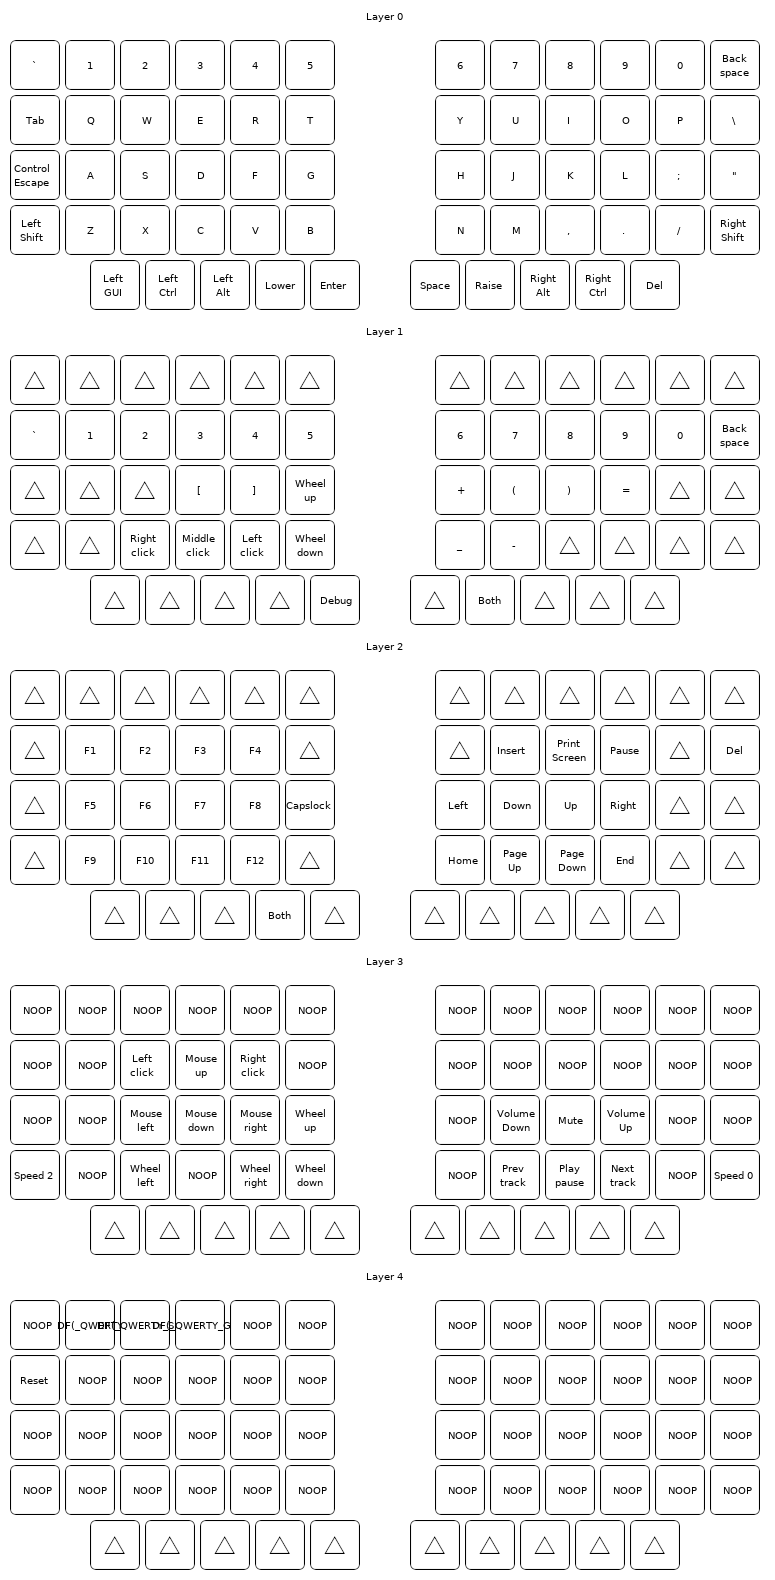
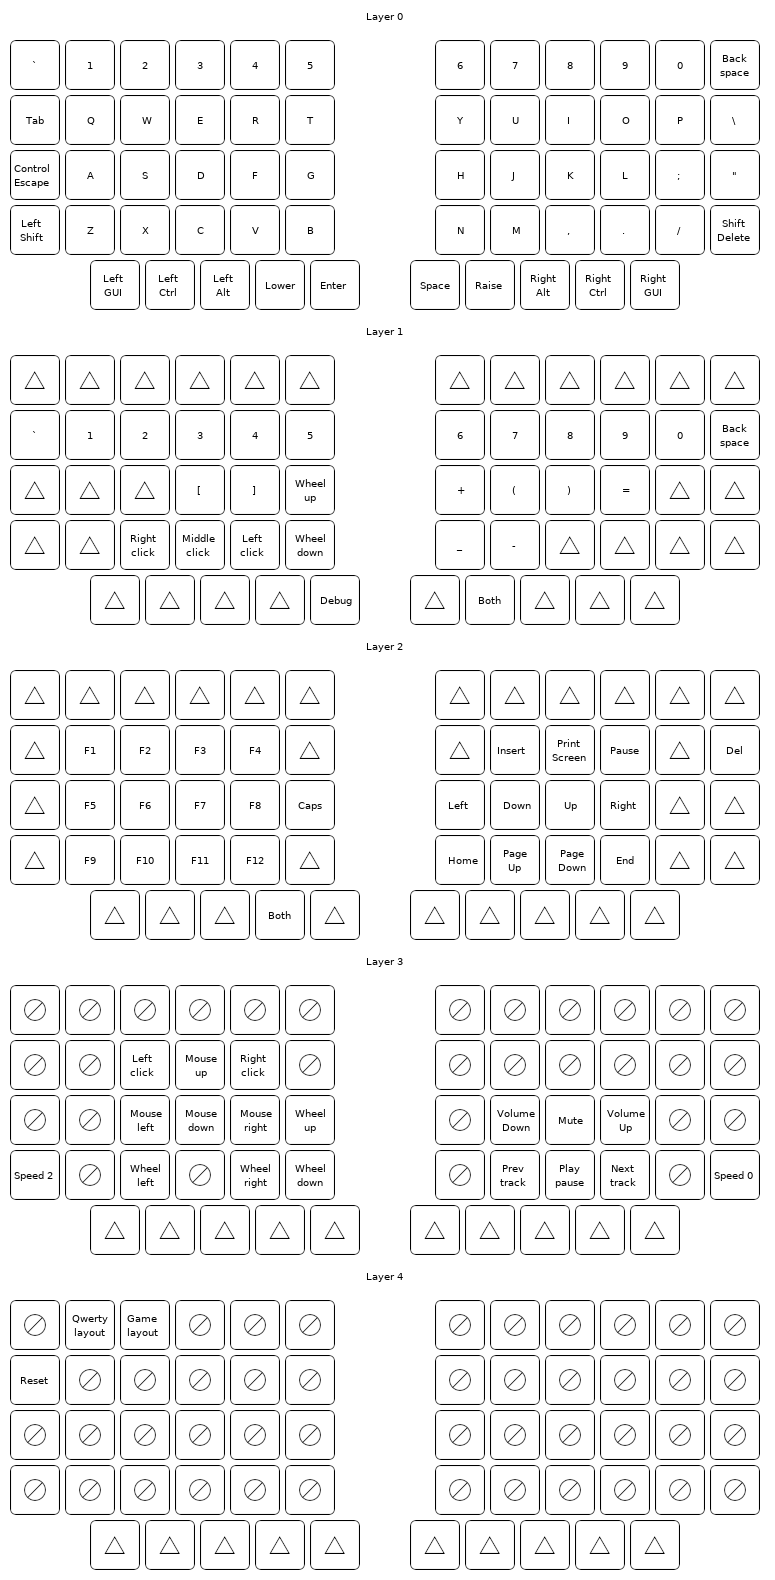
Move delete to right shift
* Restore right GUI key
* Remove slim layout

diff --git a/keymap.c b/keymap.c
@@ -2,7 +2,6 @@
 
 enum sofle_layers {
     _QWERTY,
-    _QWERTY_SLIM,
     _QWERTY_GAME,
     _LOWER,
     _RAISE,
@@ -11,29 +10,6 @@ enum sofle_layers {
 };
 
 const uint16_t PROGMEM keymaps[][MATRIX_ROWS][MATRIX_COLS] = {
-/*
- * QWERTY SLIM
- * ,-----------------------------------------.                    ,-----------------------------------------.
- * |  `   |      |      |      |      |      |                    |      |      |      |      |      | Bspc |
- * |------+------+------+------+------+------|                    |------+------+------+------+------+------|
- * | Tab  |   Q  |   W  |   E  |   R  |   T  |                    |   Y  |   U  |   I  |   O  |   P  |  \   |
- * |------+------+------+------+------+------|                    |------+------+------+------+------+------|
- * | ESC  |   A  |   S  |   D  |   F  |   G  |-------.    ,-------|   H  |   J  |   K  |   L  |   ;  |  '   |
- * |------+------+------+------+------+------|       |    |       |------+------+------+------+------+------|
- * |LShift|   Z  |   X  |   C  |   V  |   B  |-------|    |-------|   N  |   M  |   ,  |   .  |   /  |RShift|
- * `-----------------------------------------/       /     \      \-----------------------------------------'
- *            | LGUI | LCTR | LAlt |LOWER | /Enter  /       \Space \  |RAISE | RAlt | RCTR | Del  |
- *            |      |      |      |      |/       /         \      \ |      |      |      |      |
- *            `----------------------------------'           '------''---------------------------'
- */
-
-[_QWERTY_SLIM] = LAYOUT(
-  KC_GRV,    XXXXXXX,XXXXXXX, XXXXXXX, XXXXXXX, XXXXXXX,                   XXXXXXX,XXXXXXX,XXXXXXX,XXXXXXX,XXXXXXX,   KC_BSPC,
-  KC_TAB,       KC_Q,   KC_W,    KC_E,    KC_R,    KC_T,                      KC_Y,  KC_U,  KC_I,   KC_O,   KC_P,   KC_BSLS,
-  CTL_T(KC_ESC),KC_A,   KC_S,    KC_D,    KC_F,    KC_G,                      KC_H,  KC_J,  KC_K,   KC_L,   KC_SCLN,KC_QUOT,
-  KC_LSFT,      KC_Z,   KC_X,    KC_C,    KC_V,    KC_B, KC_MUTE,     _______,KC_N,  KC_M,  KC_COMM,KC_DOT, KC_SLSH,KC_RSFT,
-                  KC_LGUI,  KC_LCTRL,KC_LALT,MO(_LOWER), KC_ENT,      KC_SPC,  MO(_RAISE), KC_RALT,  KC_RCTRL, KC_DEL
-),
 /*
  * QWERTY
  * ,-----------------------------------------.                    ,-----------------------------------------.
@@ -45,7 +21,7 @@ const uint16_t PROGMEM keymaps[][MATRIX_ROWS][MATRIX_COLS] = {
  * |------+------+------+------+------+------|       |    |       |------+------+------+------+------+------|
  * |LShift|   Z  |   X  |   C  |   V  |   B  |-------|    |-------|   N  |   M  |   ,  |   .  |   /  |RShift|
  * `-----------------------------------------/       /     \      \-----------------------------------------'
- *            | LGUI | LCTR | LAlt |LOWER | /Enter  /       \Space \  |RAISE | RAlt | RCTR | Del  |
+ *            | LGUI | LCTR | LAlt |LOWER | /Enter  /       \Space \  |RAISE | RAlt | RCTR | RGUI |
  *            |      |      |      |      |/       /         \      \ |      |      |      |      |
  *            `----------------------------------'           '------''---------------------------'
  */
@@ -54,8 +30,8 @@ const uint16_t PROGMEM keymaps[][MATRIX_ROWS][MATRIX_COLS] = {
   KC_GRV,       KC_1,   KC_2,    KC_3,    KC_4,    KC_5,                      KC_6,  KC_7,  KC_8,   KC_9,   KC_0,   KC_BSPC,
   KC_TAB,       KC_Q,   KC_W,    KC_E,    KC_R,    KC_T,                      KC_Y,  KC_U,  KC_I,   KC_O,   KC_P,   KC_BSLS,
   CTL_T(KC_ESC),KC_A,   KC_S,    KC_D,    KC_F,    KC_G,                      KC_H,  KC_J,  KC_K,   KC_L,   KC_SCLN,KC_QUOT,
-  KC_LSFT,      KC_Z,   KC_X,    KC_C,    KC_V,    KC_B, KC_MUTE,     _______,KC_N,  KC_M,  KC_COMM,KC_DOT, KC_SLSH,KC_RSFT,
-                  KC_LGUI,  KC_LCTRL,KC_LALT,MO(_LOWER), KC_ENT,      KC_SPC,  MO(_RAISE), KC_RALT,  KC_RCTRL, KC_DEL
+  KC_LSFT,      KC_Z,   KC_X,    KC_C,    KC_V,    KC_B, KC_MUTE,     _______,KC_N,  KC_M,  KC_COMM,KC_DOT, KC_SLSH,RSFT_T(KC_DEL),
+                  KC_LGUI,  KC_LCTRL,KC_LALT,MO(_LOWER), KC_ENT,      KC_SPC,  MO(_RAISE), KC_RALT,  KC_RCTRL, KC_RGUI
 ),
 /*
  * QWERTY (gaming)
@@ -111,7 +87,7 @@ const uint16_t PROGMEM keymaps[][MATRIX_ROWS][MATRIX_COLS] = {
  * |------+------+------+------+------+------|  MUTE |    |       |------+------+------+------+------+------|
  * |      |  F9  |  F10 |  F11 |  F12 |      |-------|    |-------| Home | PgUp | PgDn | End  |      |      |
  * `-----------------------------------------/       /     \      \-----------------------------------------'
- *            | LGUI | LAlt | LCTR |LOWER | /Enter  /       \Space \  |RAISE | RCTR | RAlt | Del |
+ *            | LGUI | LAlt | LCTR |LOWER | /Enter  /       \Space \  |RAISE | RCTR | RAlt | RGUI |
  *            |      |      |      |      |/       /         \      \ |      |      |      |      |
  *            `----------------------------------'           '------''---------------------------'
  */
@@ -132,7 +108,7 @@ const uint16_t PROGMEM keymaps[][MATRIX_ROWS][MATRIX_COLS] = {
  * |------+------+------+------+------+------|  MUTE |    |       |------+------+------+------+------+------|
  * |      |      |WheelL|      |WheelR|WheelD|-------|    |-------|      | PREV | PLAY | NEXT |      |      |
  * `-----------------------------------------/       /     \      \-----------------------------------------'
- *            | LGUI | LAlt | LCTR |LOWER | /Enter  /       \Space \  |RAISE | RCTR | RAlt | Del |
+ *            | LGUI | LAlt | LCTR |LOWER | /Enter  /       \Space \  |RAISE | RCTR | RAlt | RGUI |
  *            |      |      |      |      |/       /         \      \ |      |      |      |      |
  *            `----------------------------------'           '------''---------------------------'
  */
@@ -145,7 +121,7 @@ const uint16_t PROGMEM keymaps[][MATRIX_ROWS][MATRIX_COLS] = {
 ),
 /* DEBUG
  * ,-----------------------------------------.                    ,-----------------------------------------.
- * |      |QWERTY| SLIM | GAME |      |      |                    |      |      |      |      |      |      |
+ * |      |QWERTY| GAME |      |      |      |                    |      |      |      |      |      |      |
  * |------+------+------+------+------+------|                    |------+------+------+------+------+------|
  * | RESET|      |      |      |      |      |                    |      |      |      |      |      |      |
  * |------+------+------+------+------+------|                    |------+------+------+------+------+------|
@@ -158,7 +134,7 @@ const uint16_t PROGMEM keymaps[][MATRIX_ROWS][MATRIX_COLS] = {
  *            `----------------------------------'           '------''---------------------------'
  */
 [_DEBUG] = LAYOUT(
-  XXXXXXX, DF(_QWERTY), DF(_QWERTY_SLIM), DF(_QWERTY_GAME), XXXXXXX, XXXXXXX,                       XXXXXXX, XXXXXXX, XXXXXXX, XXXXXXX, XXXXXXX, XXXXXXX,
+  XXXXXXX, DF(_QWERTY), DF(_QWERTY_GAME), XXXXXXX, XXXXXXX, XXXXXXX,                       XXXXXXX, XXXXXXX, XXXXXXX, XXXXXXX, XXXXXXX, XXXXXXX,
   RESET,   XXXXXXX, XXXXXXX, XXXXXXX, XXXXXXX, XXXXXXX,                       XXXXXXX, XXXXXXX, XXXXXXX, XXXXXXX, XXXXXXX, XXXXXXX,
   XXXXXXX, XXXXXXX, XXXXXXX, XXXXXXX, XXXXXXX, XXXXXXX,                       XXXXXXX, XXXXXXX, XXXXXXX, XXXXXXX, XXXXXXX, XXXXXXX,
   XXXXXXX, XXXXXXX, XXXXXXX, XXXXXXX, XXXXXXX, XXXXXXX, XXXXXXX,     XXXXXXX, XXXXXXX, XXXXXXX, XXXXXXX, XXXXXXX, XXXXXXX, XXXXXXX,
@@ -193,9 +169,6 @@ static void print_status_narrow(void) {
         case _QWERTY:
             oled_write_ln_P(PSTR("Qwrt"), false);
             break;
-        case _QWERTY_SLIM:
-            oled_write_ln_P(PSTR("Slim"), false);
-            break;
         case _QWERTY_GAME:
             oled_write_ln_P(PSTR("Game"), false);
             break;
@@ -208,9 +181,6 @@ static void print_status_narrow(void) {
     switch (get_highest_layer(layer_state)) {
         case _QWERTY:
             oled_write_P(PSTR("Base\n"), false);
-            break;
-        case _QWERTY_SLIM:
-            oled_write_P(PSTR("Slim\n"), false);
             break;
         case _QWERTY_GAME:
             oled_write_P(PSTR("Game\n"), false);
@@ -276,6 +246,6 @@ bool encoder_update_user(uint8_t index, bool clockwise) {
 #endif
 
 void matrix_init_user(void) {
-    default_layer_set(_QWERTY_SLIM);
+    default_layer_set(_QWERTY);
 }
 

diff --git a/keycodes.py b/keycodes.py
@@ -23,6 +23,9 @@ KEYCODES = {
     'KC_TRNS': 'KC_TRNS',
     'KC_DLR': '$',
     'CTL_T(KC_ESC)': 'Control\nEscape',
+    'RSFT_T(KC_DEL)': 'Shift\nDelete',
+    'DF(_QWERTY)': 'Qwerty\nlayout',
+    'DF(_QWERTY_GAME)': 'Game\nlayout',
     'KC_PGUP': 'Page\nUp',
     'KC_PGDN': 'Page\nDown',
     'KC_UP': 'Up',
@@ -101,8 +104,8 @@ KEYCODES = {
     'KC_COMM': ',',
     'KC_DOT': '.',
     'KC_SLSH': '/',
-    'TD(TD_CAPS)': 'Capslock',
-    'KC_CAPS': 'Capslock',
+    'TD(TD_CAPS)': 'Caps',
+    'KC_CAPS': 'Caps',
     'KC_F1': 'F1',
     'KC_F2': 'F2',
     'KC_F3': 'F3',
